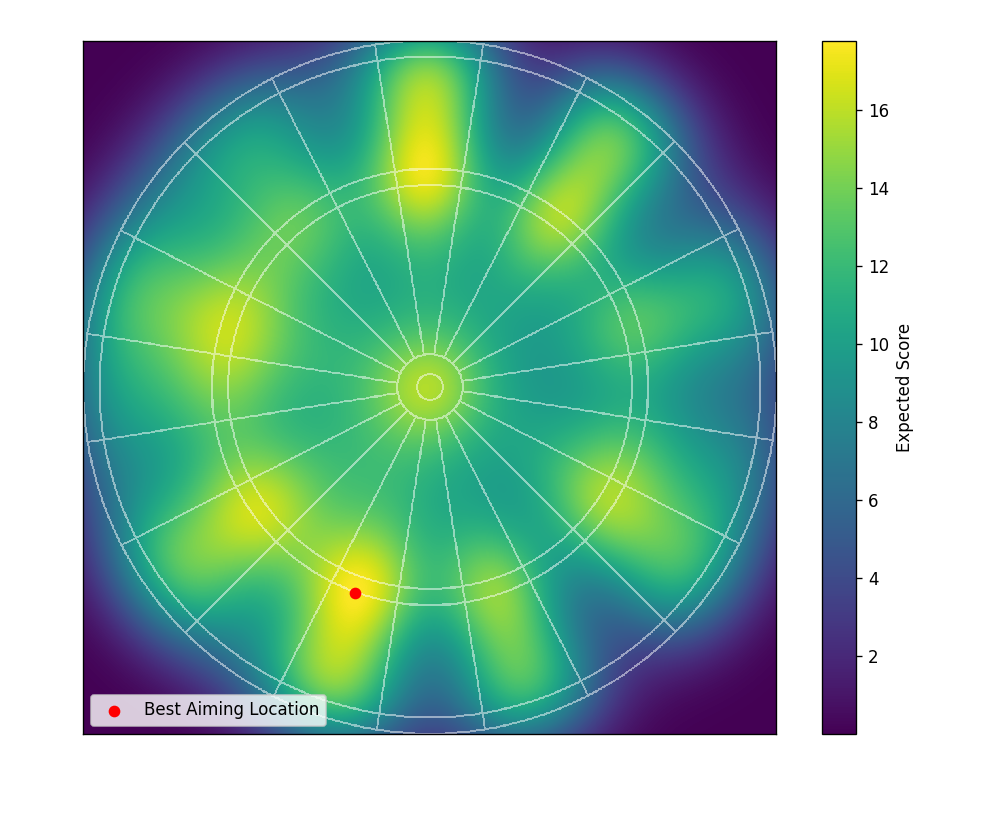
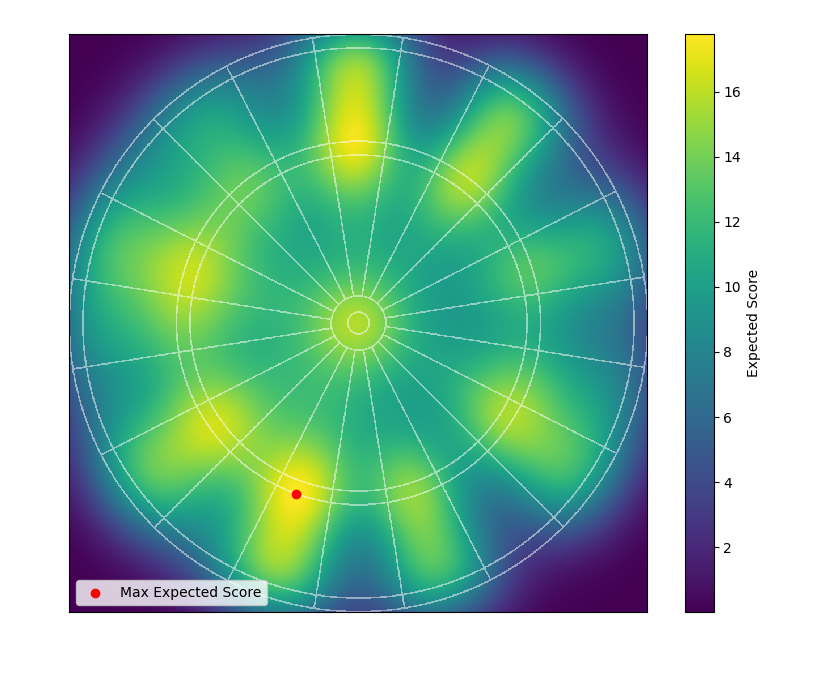
changed example outputs

diff --git a/src/create_animation.py b/src/create_animation.py
@@ -13,7 +13,7 @@ def create_animation(output_path, board):
     std_min = 2
 
     # Set up the figure, the axis, and the plot element we want to animate
-    fig = plt.figure(figsize=(8,8), dpi=120)
+    fig = plt.figure(figsize=(8, 8), dpi=100)
     ax = plt.subplot(111)
     divider = make_axes_locatable(ax)
     cax = divider.append_axes('right', size='5%', pad=0.05)
@@ -22,7 +22,7 @@ def create_animation(output_path, board):
     expected_scores, (i_max, ii_max) = board.get_all_expected_scores(player)
     im = ax.imshow(expected_scores, cmap='viridis', interpolation="none")
     ax.set_title(f"Expected Score Distribution - $\\sigma$ = {std_min} mm")
-    scat = ax.scatter(i_max, ii_max, c="r", marker="o", s=100, label="Max")
+    scat = ax.scatter(i_max, ii_max, c="r", marker="o", s=100, label="Max Expected Score")
 
     overlay_board = board.outline
     mask = np.ma.masked_where(overlay_board < 0.5, overlay_board)
@@ -31,6 +31,7 @@ def create_animation(output_path, board):
     fig.colorbar(im, cax=cax, orientation='vertical', label="Expected Score")
     ax.axis("off")
     fig.subplots_adjust(left=0.05, bottom=0, right=0.90, top=1, wspace=None, hspace=None)
+    ax.legend(loc="lower left")
 
     # define the animation function
     def animate_func(i):

diff --git a/src/Gaussian.py b/src/Gaussian.py
@@ -57,7 +57,8 @@ if __name__ == "__main__":
 
     board = Dartboard()
 
-    test_samples = generate_test_samples(mean_x=8, mean_y=-4, std_x=40, std_y=30, corr=0.2, num_samples=1000)
+    test_samples = generate_test_samples(mean_x=10, mean_y=-5, std_x=30, std_y=50, corr=-0.2, num_samples=75)
+    print(test_samples)
     gaussian = Gaussian()
     mean, std, corr = gaussian.get_parameters_from_samples(test_samples)
     print(f"Estimated Mean: {mean}")
@@ -66,7 +67,8 @@ if __name__ == "__main__":
     gaussian.update_pdf(mean, std, corr)
 
     plot_accuracy_distribution(gaussian.pdf, board.outline)
-    plt.scatter(MIDDLE, MIDDLE, c="r", marker="o", label="Target Location")
+    plt.scatter(MIDDLE, MIDDLE, c="r", marker="x", label="Target Location")
+    plt.scatter(MIDDLE+test_samples[:, 0]*PX_PER_MM, MIDDLE-test_samples[:, 1]*PX_PER_MM, c="white", edgecolor='black', marker="o", label="Samples", s=10)
     plt.legend(loc="lower left")
     plt.subplots_adjust(left=0.05, right=0.95, top=0.95, bottom=0.1)
     plt.show()

diff --git a/src/utils.py b/src/utils.py
@@ -6,7 +6,7 @@ def generate_test_samples(mean_x, mean_y, std_x, std_y, corr, num_samples):
     return samples
 
 def plot_accuracy_distribution(prob, outline):
-    fig = plt.figure(figsize=(8.4, 6.8), dpi=120)
+    fig = plt.figure(figsize=(8.4, 6.8), dpi=100)
     ax = fig.add_subplot()
     ax.set_title('')
     plt.imshow(prob)
@@ -18,7 +18,7 @@ def plot_accuracy_distribution(prob, outline):
     plt.imshow(mask_outline, cmap="binary", interpolation="none", alpha=0.5)
     
 def plot_score_distribution(scores, outline):
-    fig = plt.figure(figsize=(8.4, 6.8), dpi=120)
+    fig = plt.figure(figsize=(8.4, 6.8), dpi=100)
     ax = fig.add_subplot()
     ax.set_title('')
     plt.imshow(scores)

diff --git a/src/Dartboard.py b/src/Dartboard.py
@@ -173,7 +173,7 @@ if __name__ == "__main__":
     plot_score_distribution(board.generate_mask("20"), board.outline)
     scores, (i_max, ii_max) = board.get_all_expected_scores(player)
     plot_score_distribution(scores, board.outline)
-    plt.scatter(i_max, ii_max, c="r", marker="o", label="Best Aiming Location")
+    plt.scatter(i_max, ii_max, c="r", marker="o", label="Max Expected Score")
     plt.legend(loc="lower left")
     plt.subplots_adjust(left=0.05, right=0.95, top=0.95, bottom=0.1)
     plt.show()
